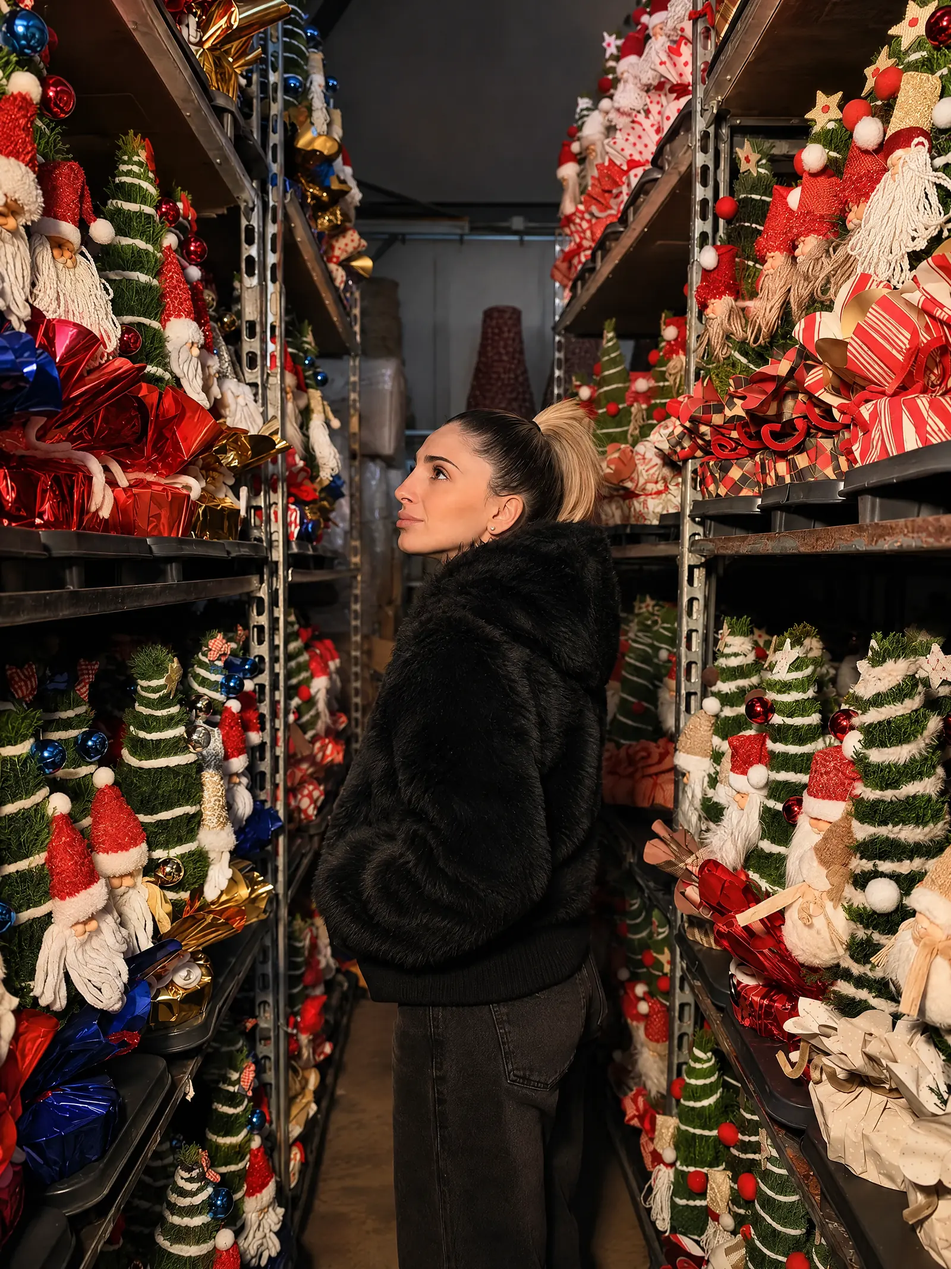
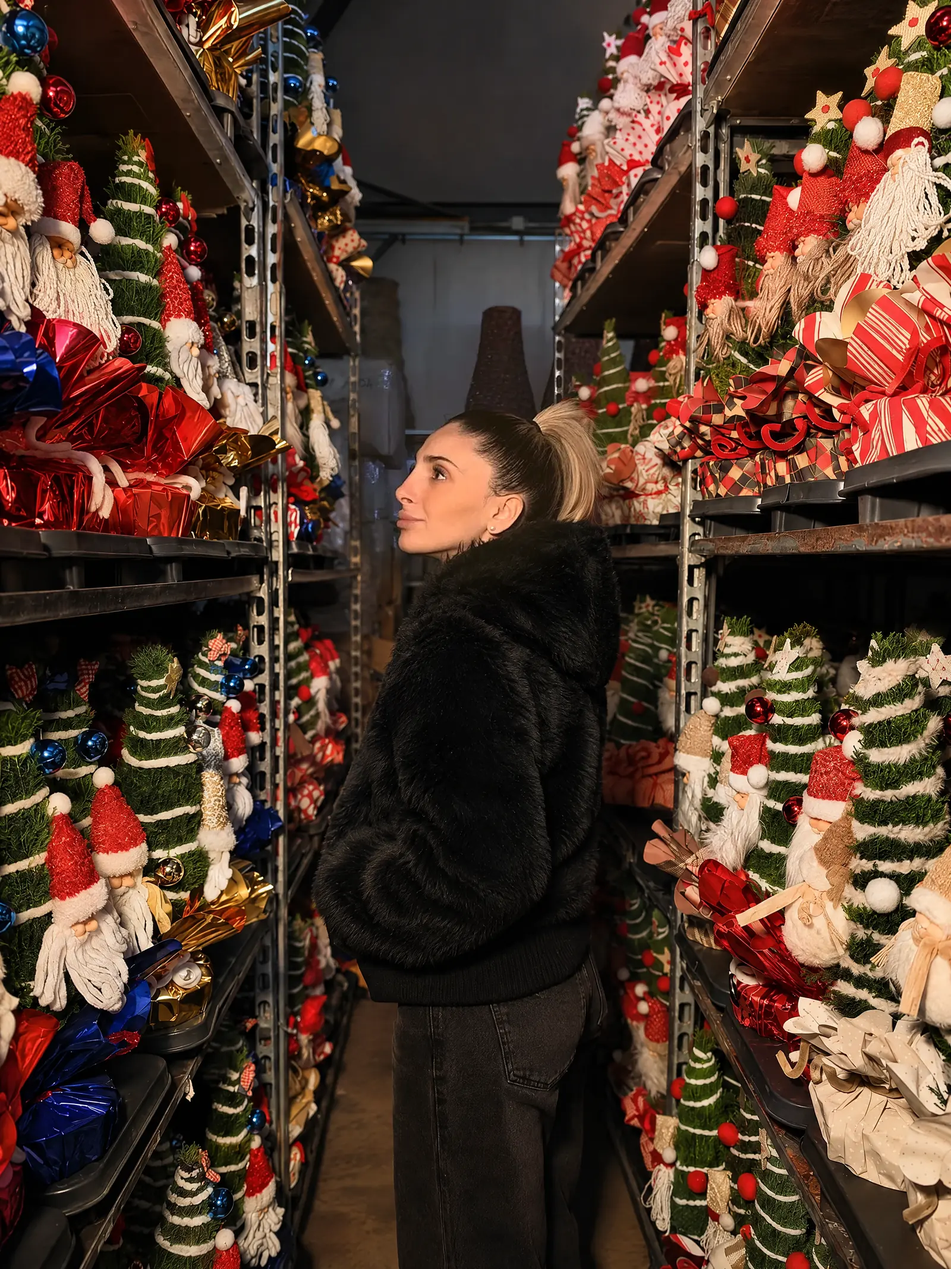
Volti originali, foto carrelli 4K

Changed region(s): [[0.3438, 0.2781, 0.625, 0.4326]]

diff --git a/fr/index.html b/fr/index.html
@@ -73,7 +73,7 @@
 </section>
 
 <section class="s verde"><div class="wrap split">
-<div class="ph rv"><img src="../img/foto/carrelli.webp" srcset="../img/foto/carrelli-800.webp 800w, ../img/foto/carrelli.webp 1200w" sizes="(max-width: 860px) 100vw, 50vw" alt="Chariots remplis de petits arbres décorés prêts à être livrés" width="1200" height="1600" loading="lazy" decoding="async"></div>
+<div class="ph rv"><img src="../img/foto/carrelli.webp" srcset="../img/foto/carrelli-800.webp 800w, ../img/foto/carrelli.webp 1600w" sizes="(max-width: 860px) 100vw, 50vw" alt="Chariots remplis de petits arbres décorés prêts à être livrés" width="1600" height="2136" loading="lazy" decoding="async"></div>
 <div class="rv"><span class="kicker">Qui sommes-nous</span>
 <h2>De notre pépinière <em>aux vitrines</em></h2>
 <div class="filetto"></div>

diff --git a/en/index.html b/en/index.html
@@ -73,7 +73,7 @@
 </section>
 
 <section class="s verde"><div class="wrap split">
-<div class="ph rv"><img src="../img/foto/carrelli.webp" srcset="../img/foto/carrelli-800.webp 800w, ../img/foto/carrelli.webp 1200w" sizes="(max-width: 860px) 100vw, 50vw" alt="Trolleys full of decorated trees ready for delivery" width="1200" height="1600" loading="lazy" decoding="async"></div>
+<div class="ph rv"><img src="../img/foto/carrelli.webp" srcset="../img/foto/carrelli-800.webp 800w, ../img/foto/carrelli.webp 1600w" sizes="(max-width: 860px) 100vw, 50vw" alt="Trolleys full of decorated trees ready for delivery" width="1600" height="2136" loading="lazy" decoding="async"></div>
 <div class="rv"><span class="kicker">Who we are</span>
 <h2>From our nursery <em>to shop windows</em></h2>
 <div class="filetto"></div>

diff --git a/index.html b/index.html
@@ -73,7 +73,7 @@
 </section>
 
 <section class="s verde"><div class="wrap split">
-<div class="ph rv"><img src="img/foto/carrelli.webp" srcset="img/foto/carrelli-800.webp 800w, img/foto/carrelli.webp 1200w" sizes="(max-width: 860px) 100vw, 50vw" alt="Carrelli pieni di alberelli decorati pronti per la consegna" width="1200" height="1600" loading="lazy" decoding="async"></div>
+<div class="ph rv"><img src="img/foto/carrelli.webp" srcset="img/foto/carrelli-800.webp 800w, img/foto/carrelli.webp 1600w" sizes="(max-width: 860px) 100vw, 50vw" alt="Carrelli pieni di alberelli decorati pronti per la consegna" width="1600" height="2136" loading="lazy" decoding="async"></div>
 <div class="rv"><span class="kicker">Chi siamo</span>
 <h2>Dal nostro vivaio <em>alle vetrine</em></h2>
 <div class="filetto"></div>
